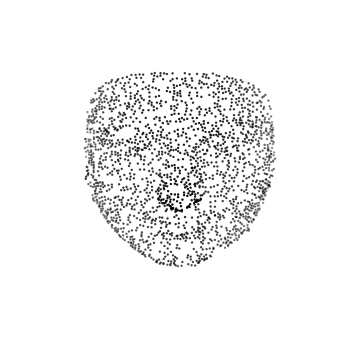
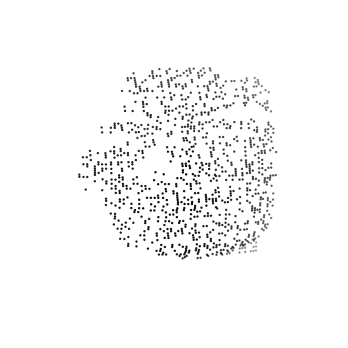
modify the 3D reconstruction function

Changed region(s): [[0.2299, 0.1724, 0.8046, 0.7759]]

diff --git a/CW_SL_attack.py b/CW_SL_attack.py
@@ -62,6 +62,7 @@ class reconstruct3D(torch.autograd.Function):
         h = int(h)
         start = time.time()
         index  = 0
+        '''
         for vc in range(x,x+h):
             for uc in range(y, y+w):        
                 if y_p[vc,uc]!=0:
@@ -76,14 +77,32 @@ class reconstruct3D(torch.autograd.Function):
                         xyz = point.t()
                     else:
                         xyz = torch.cat((xyz, point.t()),0)
-        xyz_rebuild = xyz.float().to(device)
+        xyz_rebuild = xyz.float().to(device)            
+        '''
+        y_p = y_p.cpu().numpy()
+        Ac = Ac.cpu().numpy()
+        Ap = Ap.cpu().numpy()
+        xyz = []
+        for vc in range(x,x+h):
+            for uc in range(y, y+w):        
+                if y_p[vc,uc]!=0:
+                    A = np.concatenate((Ac[0:2,0:3] - np.concatenate((np.expand_dims(Ac[2,0:3],0) *uc, np.expand_dims(Ac[2,0:3],0) *vc), axis = 0),
+                                np.expand_dims(Ap[0,0:3],0) - np.expand_dims(Ap[2,0:3],0)  * y_p[vc,uc]),axis=0)  
+                    b = np.array([Ac[2,3] * uc  - Ac[0,3], 
+                                    Ac[2,3] * vc- Ac[1,3],
+                                    Ap[2,3] * y_p[vc,uc] - Ap[0,3]])
+                    point = np.matmul(np.linalg.inv(A),b.T)
+                    xyz.append(point)
+        
+        
+        xyz_rebuild = torch.tensor(np.array(xyz)).float().to(device) #[4200,3], [x,y,z,uc,vc]
         ctx.save_for_backward(y_p, xyz_rebuild)
         ctx.Ac = Ac
         ctx.Ap = Ap
         ctx.face_area = face_area
         end = time.time()
         print(f"time taken for 3D reconstruction : {(end-start)*10**3:.03f}ms")
-        #showXYZ(xyz_rebuild[:,0:3].cpu().detach().numpy(), "imgs/xyz_rebuild.png")
+        showXYZ(xyz_rebuild[:,0:3].cpu().detach().numpy(), "imgs/xyz_rebuild.png")
         return xyz_rebuild
        
        

diff --git a/ReadMe.md b/ReadMe.md
@@ -111,9 +111,6 @@ python Evaluate.py --whether_1d --attack_lr 0.001 --num_iter 1000 --binary_step 
 ```
 python get_adv_illumination --normal_pc test_face_data/person1.txt --adv_pc test_face_data/adv_person1_untargeted_L1Loss_5.txt --outfolder test_face_data/person1/adversarial_fringe
 ```
-### Todo
-
-- Accelerate the differential 3D reconstruction function for-loops by using parallel computing on GPU and C++. (At present, it needs about 40s for 1024 points reconstruction.)
 
 
 ## Citation
